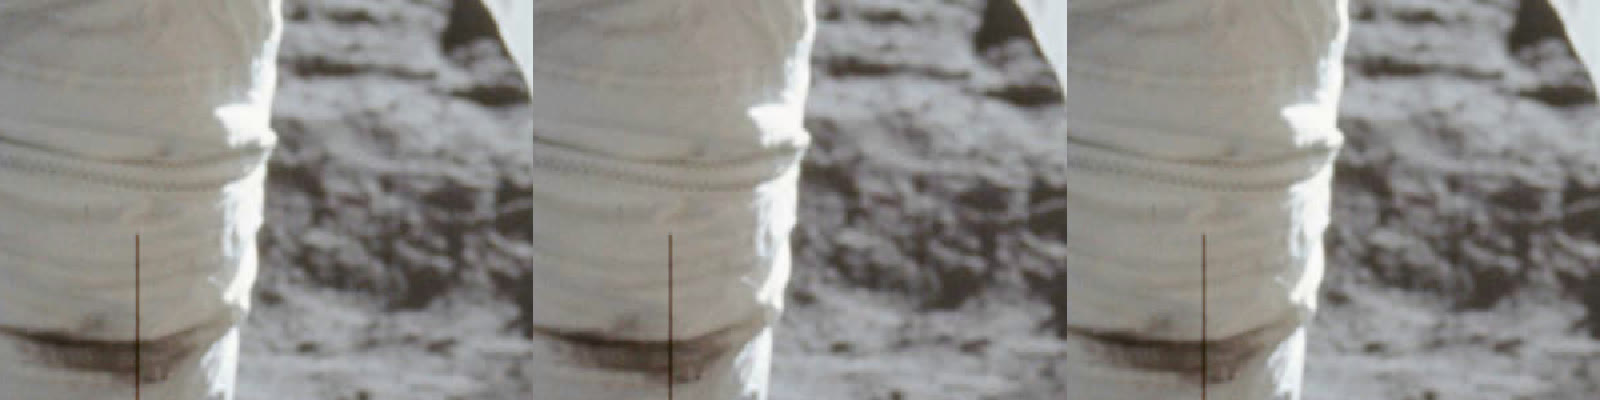
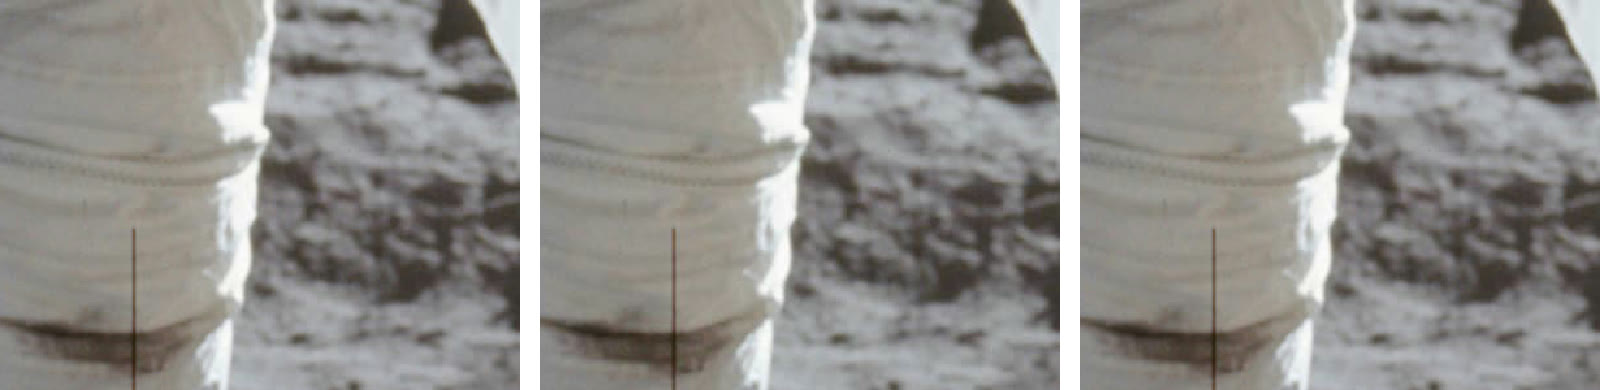
HEIC post: code-review fixes (ratio ranges match the table, q60 reported, figure gaps and alt, canonical travel.state.gov links, 0.999 claim tied to its baseline)
Tests: none (content only; posts.test and the post-tables E2E cover it, 46/46)

diff --git a/source/_posts/heic-to-jpg-what-you-lose.blade.md b/source/_posts/heic-to-jpg-what-you-lose.blade.md
@@ -32,8 +32,8 @@ The short answer: big photo and shop platforms now accept HEIC, while browsers o
 | Etsy listing photos | Yes | .jpg, .gif, .png, .svg or .heic; files over 1 MB "may not finish uploading" ([Etsy Help](https://help.etsy.com/hc/en-us/articles/115015663347-How-to-Add-Photos-and-Videos-to-Your-Listings)) |
 | Shopify product images | Yes | HEIC listed with TIFF, BMP, GIF, SVG and WebP; under 20 MB, up to 25 MP ([Shopify Help Center](https://help.shopify.com/en/manual/products/product-media/product-media-types)) |
 | eBay listing photos | Yes | JPEG, PNG, GIF, TIFF, BMP, WEBP, HEIC or AVIF; 12 MB per file ([eBay Help](https://www.ebay.com/help/selling/listings/adding-pictures-listings?id=4148)) |
-| US passport renewal online | Yes | JPG, JPEG, PNG, HEIC or HEIF, 54 KB to 10 MB ([US Department of State](https://adoption.state.gov/en/passports/renew-replace/online/upload-digital-photo.html)) |
-| US visa photo | **No** | JPEG only, at most 240 kB, square, 600 to 1200 px, sRGB ([US Department of State](https://adoption.state.gov/content/travel/en/us-visas/visa-information-resources/photos/digital-image-requirements.html)) |
+| US passport renewal online | Yes | JPG, JPEG, PNG, HEIC or HEIF, 54 KB to 10 MB ([US Department of State](https://travel.state.gov/en/passports/renew-replace/online/upload-digital-photo.html)) |
+| US visa photo | **No** | JPEG only, at most 240 kB, square, 600 to 1200 px, sRGB ([US Department of State](https://travel.state.gov/content/travel/en/us-visas/visa-information-resources/photos/digital-image-requirements.html)) |
 | LinkedIn Page images | **No** | "All images must be PNG or JPEG files", up to 3 MB ([LinkedIn Help](https://www.linkedin.com/help/linkedin/answer/a563309)) |
 | UK passport online | Not stated | Format not named; 50 KB to 10 MB, at least 600 × 750 px ([GOV.UK](https://www.gov.uk/photos-for-passports)) |
 | Chrome, Edge, Firefox | **No** | No version displays HEIC in a web page; Safari 17 and later do, about 17% of users ([Can I use](https://caniuse.com/heif)) |
@@ -61,19 +61,19 @@ Each file was decoded once with libheif 1.23.5 (the same WebAssembly build our c
 | Apollo 11, portrait crop, 12 MP | 1,082 KB | 859 KB (0.979) | 1,251 KB (0.985) | 1,809 KB (0.994) | 4,879 KB (0.999) | 11,196 KB |
 | libheif example, 1.1 MP | 718 KB | 217 KB (0.946) | 319 KB (0.969) | 475 KB (0.985) | 1,150 KB (0.999) | 1,871 KB |
 
-*SSIM against the decoded HEIC in brackets. PNG is lossless, so its SSIM is 1.0.*
+*SSIM against the decoded HEIC in brackets. PNG is lossless, so its SSIM is 1.0. Quality 60, not shown, gave 0.22 to 0.60 times the HEIC size at SSIM 0.919 to 0.976.*
 
-![Three 400 by 300 pixel crops of the Apollo 11 photo at 200% zoom: the decoded HEIC, the quality 75 JPG with smoother grain, and the quality 92 JPG that matches the original](/assets/img/uploads/heic-to-jpg-quality-compare.jpeg)
+![Three side-by-side crops of the same patch of the Apollo 11 photo, enlarged: the decoded HEIC, the quality 75 JPG with smoother grain, and the quality 92 JPG that matches the original](/assets/img/uploads/heic-to-jpg-quality-compare.jpeg)
 
-*Left to right: the decoded HEIC, JPG quality 75, JPG quality 92 (Apollo 11, NASA, public domain; 200% zoom). At 75 the lunar soil loses some grain; at 92 we couldn't tell it from the original.*
+*Left to right, separated by white gaps: the decoded HEIC, JPG quality 75, JPG quality 92 (a 400 × 300 px patch of the Apollo 11 photo, NASA, public domain, enlarged 1.3 times). At 75 the lunar soil loses some grain; at 92 we couldn't tell it from the original.*
 
 What this says:
 
-1. **At a quality you'd keep, the JPG is bigger.** For the three Apple-encoded 12 MP photos, quality 92 gave files 1.66 to 1.70 times the HEIC size, and quality 85 gave 1.16 times. Only around quality 75 did the JPG come out smaller than the HEIC, and at 200% zoom that setting visibly smooths fine grain (see the crops above).
+1. **At a quality you'd keep, the JPG is bigger.** For the three Apple-encoded 12 MP photos, quality 92 gave files 1.66 to 1.70 times the HEIC size, and quality 85 gave 1.16 times. Only around quality 75 did those three come out smaller than the HEIC (the smaller iPhone sample was already smaller at 85), and enlarged, that setting visibly smooths fine grain (see the crops above).
 2. **The size depends on how the HEIC was saved, not only on the format.** The libheif example is a high-quality HEIC (718 KB for 1.1 MP), so every JPG below quality 100 is smaller than it. "JPG is always twice the size" isn't true; it depends on the source.
-3. **Quality 100 is almost never worth it.** It took the files to 3.0 to 4.5 times the HEIC size for an SSIM gain from about 0.994 to 0.999 that we couldn't see.
+3. **Quality 100 is almost never worth it.** It took the Apple-encoded files to 3.0 to 4.5 times the HEIC size (the libheif example to 1.6 times) for an SSIM gain from about 0.994 to 0.999 that we couldn't see.
 4. **The jump from 85 to 92 is partly color.** At 92 and above, the encoder keeps color at full resolution (4:4:4, checked in the files' headers); below 90 it stores color at reduced resolution. That's part of why the files grow by 43 to 52% between those two settings.
-5. **PNG is the wrong "lossless" choice for photos.** It came out 5 to 10 times the HEIC size and gets you nothing a quality-92 JPG doesn't, unless you plan to edit and resave the picture many times.
+5. **PNG is the wrong "lossless" choice for photos.** It came out 2.6 to 10.4 times the HEIC size and gets you nothing a quality-92 JPG doesn't, unless you plan to edit and resave the picture many times.
 
 ## Where the sources disagree on size
 
@@ -85,15 +85,15 @@ These don't contradict each other. Nokia compared both codecs against the same u
 
 The pixels are only part of an iPhone photo. Reading our iPhone 13 Pro sample with ExifTool shows what else is in the file:
 
-- **An HDR gain map.** The sample carries a second, 756 × 426 image (half the main size) of type `urn:com:apple:photo:2020:aux:hdrgainmap`, plus Apple's HDR headroom values. The apple-hdr-heic project describes the gain map as "an inverse tone-map": on an HDR screen it brightens highlights beyond the normal image. A standard JPG converter, ours included, writes only the main image, so the photo looks the same on an ordinary screen and loses its extra brightness on an HDR one.
-- **Tiles.** The main image is stored as 512 × 512 tiles that the decoder stitches together. In our sample, the 1512 × 850 picture is a grid of six tiles. This matters for old converters: our first version used heic2any, built on a 2020-era libheif, and scored 0.870 SSIM on a real tiled iPhone HEIC in our October benchmark; after we moved to libheif 1.23 the same file scored 0.9992. If an older tool gives you a blocky or cropped JPG, this is the usual cause.
+- **An HDR gain map.** The sample carries a second, 756 × 426 image (about half the main size) of type `urn:com:apple:photo:2020:aux:hdrgainmap`, plus Apple's HDR headroom values. The apple-hdr-heic project describes the gain map as "an inverse tone-map": on an HDR screen it brightens highlights beyond the normal image. A standard JPG converter, ours included, writes only the main image, so the photo looks the same on an ordinary screen and loses its extra brightness on an HDR one.
+- **Tiles.** The main image is stored as 512 × 512 tiles that the decoder stitches together. In our sample, the 1512 × 850 picture is a grid of six tiles. This matters for old converters: our first version used heic2any, built on a 2020-era libheif, and scored 0.870 SSIM on a real tiled iPhone HEIC in our October benchmark, where Apple's own converter scored 0.996; after we moved to libheif 1.23 our output scored 0.999 against Apple's decode of the same file. If an older tool gives you a blocky or cropped JPG, this is the usual cause.
 - **Depth and other auxiliary images.** HEIF can store a depth map next to the photo (Nokia's overview names it as an example of an auxiliary image). A JPG has nowhere to put it.
 - **Wide color.** The sample is tagged Display P3. A careful converter copies that color profile into the JPG so colors stay the same; a careless one drops it and colors look slightly duller. The US visa page asks for sRGB, so a P3-tagged JPG isn't strictly what it asks for. We haven't tested whether that portal rejects one.
 - **Location.** Exif data, including GPS, can be copied into the JPG. Our converter keeps the date taken and removes the location by default. If you use another tool, check the result with an [EXIF viewer](/tools/photo/exif-viewer/) or clean it with the [EXIF stripper](/tools/photo/exif-stripper/) before you post it anywhere public.
 
 ## A worked example: the 240 KB visa photo
 
-The visa row in the table is the strict one: JPEG, square, 600 to 1200 px, at most 240 kB. We took the 12 MP Apollo 11 photo, cropped it square and resized it, then saved it at our four usual quality settings:
+The visa row in the table is the strict one: JPEG, square, 600 to 1200 px, at most 240 kB. We took the 12 MP Apollo 11 photo, cropped it square and resized it, then saved it at four of the quality settings:
 
 | Size | q75 | q85 | q92 | q100 |
 |---|---|---|---|---|
@@ -126,7 +126,7 @@ HEIC to JPG costs you three things: some space (about 1.2 to 1.7 times at a qual
 - Etsy Help: [How to add photos and videos to your listings](https://help.etsy.com/hc/en-us/articles/115015663347-How-to-Add-Photos-and-Videos-to-Your-Listings).
 - Shopify Help Center: [Product media types](https://help.shopify.com/en/manual/products/product-media/product-media-types).
 - eBay Help: [Adding pictures to your listings](https://www.ebay.com/help/selling/listings/adding-pictures-listings?id=4148).
-- US Department of State: [Upload a digital photo for online passport renewal](https://adoption.state.gov/en/passports/renew-replace/online/upload-digital-photo.html) and [visa photo digital image requirements](https://adoption.state.gov/content/travel/en/us-visas/visa-information-resources/photos/digital-image-requirements.html).
+- US Department of State: [Upload a digital photo for online passport renewal](https://travel.state.gov/en/passports/renew-replace/online/upload-digital-photo.html) and [visa photo digital image requirements](https://travel.state.gov/content/travel/en/us-visas/visa-information-resources/photos/digital-image-requirements.html).
 - LinkedIn Help: [Page and Career Page image requirements](https://www.linkedin.com/help/linkedin/answer/a563309).
 - GOV.UK: [Photos for passports](https://www.gov.uk/photos-for-passports).
 - strukturag: [libheif](https://github.com/strukturag/libheif) (HEIF and AVIF decoder and encoder, LGPL).

diff --git a/BLOG-PLAN.md b/BLOG-PLAN.md
@@ -166,7 +166,7 @@ Rank = demand evidence × how well we can add something new × fit with the read
 - **New angle:** measured quality (our converter: SSIM 0.982/0.970 on real iPhone HEICs, QUALITY-MEDIA.md) and file sizes before/after on 10 photos. Add a table of which big platforms accept HEIC, each from its own help page.
 - **Sources:** Apple support on HEIF/HEVC, the MPEG HEIF spec page / Nokia HEIF docs, caniuse.com for HEIC/AVIF support, 2+ platform help pages (Google Photos, Windows/Microsoft Store HEIF extension).
 - **Internal links:** /tools/files/heic-to-jpg/, /tools/files/heic-to-png/, /tools/photo/resize-image/, topic 13.
-- **Status:** published 2026-10-30 → `/articles/heic-to-jpg-what-you-lose` (own sweep 30 Oct 2026: 5 HEICs (iPhone 13 Pro HDR sample, 3 Apple-encoded 12 MP NASA photos, libheif example) decoded with libheif 1.23.5, MozJPEG q60–100: q92 = 1.17–1.70× the HEIC at SSIM ≥0.989; PNG 5–10×; HDR gain map and tiles shown with ExifTool; 10-place acceptance table from each help page; US visa 240 kB worked example)
+- **Status:** published 2026-10-30 → `/articles/heic-to-jpg-what-you-lose` (own sweep 30 Oct 2026: 5 HEICs (iPhone 13 Pro HDR sample, 3 Apple-encoded 12 MP NASA photos, libheif example) decoded with libheif 1.23.5, MozJPEG q60–100: q92 = 1.17–1.70× the HEIC at SSIM ≥0.989; PNG 2.6–10.4×; HDR gain map and tiles shown with ExifTool; 10-place acceptance table from each help page; US visa 240 kB worked example)
 
 ### 12. Your photos carry your location: which apps strip EXIF (tested) · `next`
 - **Keyword:** `remove exif data` (level 4; Wikipedia "Exif" 7,697/mo), `exif viewer` (level 4).
